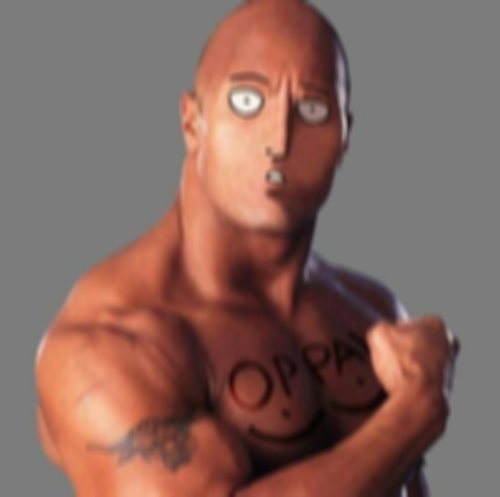
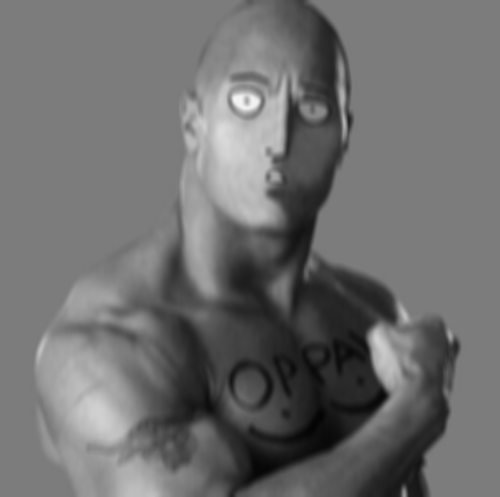
def et cli

diff --git a/main.py b/main.py
@@ -1,57 +1,26 @@
-import cv2
-import os
-import numpy as np
+from fonction import gray, flou, latter
+import sys
 
-
-#separe dans notre logique dossier entree/sortie et fichier
 try:
     dossier_entrance = "images"
     dossier_exit = "images2.0"
-    #1 ouvrir un dossier qui contient des images
 
-    files = os.listdir(dossier_entrance)
-
-    #2 pous chacune des images les ouvrir avec opencv, appliquer le filtre , enregistrer l'image dans le dossier de sortie
-
-    for f in files:
-        #TODO rajouter un if pour filtrer les extensions fichiers
-        img = cv2.imread(f"{dossier_entrance}/{f}")
-        kernel = np.ones((10, 10),np.uint(8))
+    args = sys.argv
 
 
-        try:
-            gray = cv2.cvtColor(img, cv2.COLOR_BGR2GRAY)
-        except cv2.error as e:
-            print('image pas en jpg/png')
 
-
-        try:
-            flou = cv2.GaussianBlur(img,(5,11),cv2.BORDER_DEFAULT)
-        except cv2.error as e:
-            print('taille de flou pair ou image pas en jpg/png')
-
-
-        try:
-            latter = cv2.dilate(img, kernel, 20)
-        except cv2.error as e:
-            print('')
-
-
-        try:
-           cv2.imwrite(f"{dossier_exit}/{f}", flou)
-        except NameError as e:
-            print('varible pas crée')
-        except cv2.error as e:
-            print('')
-
+    for i in range(0, len(args)):
+        arg = args[i]
+        print(arg)
+        if arg == 'gray':
+            gray(dossier_entrance,dossier_exit)
+        elif arg == 'flou':
+            flou(dossier_exit, dossier_exit)
+        elif arg == 'latter':
+            latter(dossier_entrance, dossier_exit)
 
 except FileNotFoundError as e:
     print('dossier inexistant')
-
-
-
-
-
 
 
 

diff --git a/fonction.py b/fonction.py
@@ -1,0 +1,55 @@
+import cv2
+import os
+import numpy as np
+
+#TODO rajouter un if pour filtrer les extensions fichiers
+
+def gray (dossierE , dossierS):
+    files = os.listdir(dossierE)
+
+    for f in files:
+        img = cv2.imread(f"{dossierE}/{f}")
+        gray = cv2.cvtColor(img, cv2.COLOR_BGR2GRAY)
+        cv2.imwrite(f"{dossierS}/{f}", gray)
+
+
+
+
+def flou(dossierE, dossierS):
+    files = os.listdir(dossierE)
+
+    for f in files:
+        img = cv2.imread(f"{dossierE}/{f}")
+
+        try:
+            flou = cv2.GaussianBlur(img, (5, 11), cv2.BORDER_DEFAULT)
+        except cv2.error as e:
+            print('taille de flou pair ou image pas en jpg/png')
+
+        try:
+            cv2.imwrite(f"{dossierS}/{f}", flou)
+        except NameError as e:
+            print('varible pas crée')
+        except cv2.error as e:
+            print('')
+
+
+
+def latter(dossierE, dossierS):
+    files = os.listdir(dossierE)
+    kernel = np.ones((10, 10), np.uint(8))
+
+    for f in files:
+        img = cv2.imread(f"{dossierE}/{f}")
+
+        try:
+            latter = cv2.dilate(img, kernel, 20)
+        except cv2.error as e:
+            print('image pas en jpg/png')
+
+        try:
+            cv2.imwrite(f"{dossierS}/{f}", latter)
+        except NameError as e:
+            print('varible pas crée')
+        except cv2.error as e:
+            print('')
